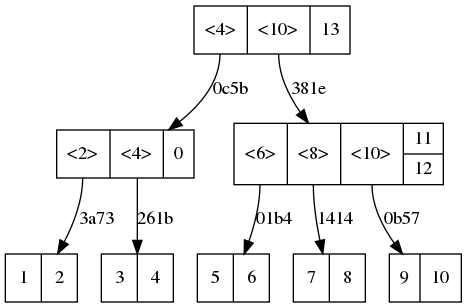
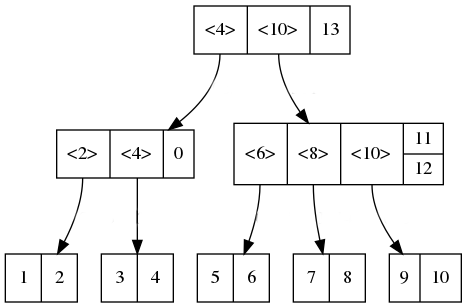
Hitchhiker tree post adjustments (#5)
* Restructure, wording

* Remove merkle hashes and clean up figures.

* Minor CSS fixes

diff --git a/_includes/footer.html b/_includes/footer.html
@@ -1,14 +1,13 @@
 <footer class="center">
   <div class="measure">
-    <small>
-      Theme crafted with &lt;3 by <a href="http://johnotander.com">John Otander</a> (<a href="https://twitter.com/4lpine">@4lpine</a>).<br>
-      &lt;/&gt; available on <a href="https://github.com/johnotander/pixyll">GitHub</a>.
-    </small>
+    <span class="small m-0 text-center license-container">
+      This work is licensed under a <a class="license-link" rel="license" href="http://creativecommons.org/licenses/by/4.0/">Creative Commons Attribution 4.0 International License</a>.
+    </span>
   </div>
 </footer>
 {% if site.enable_anchorjs %}<!-- AnchorJS -->
 <script src="https://cdnjs.cloudflare.com/ajax/libs/anchor-js/3.0.0/anchor.min.js"></script>
 <script>
-    anchors.options.visible = 'always';
-    anchors.add('article h2, article h3, article h4, article h5, article h6');
+  anchors.options.visible = 'always';
+  anchors.add('article h2, article h3, article h4, article h5, article h6');
 </script>{% endif %}

diff --git a/_includes/post_footer.html b/_includes/post_footer.html
@@ -1,10 +1,5 @@
 <div class="py2 post-footer">
-  <img src="{{ site.baseurl }}/images/me.jpeg" alt="John Otander" class="avatar" />
-  <p>
-    Pixyll is an open-source Jekyll theme that's built by <a href="http://johnotander.com">John Otander</a>.
-    When he's not writing code and building things, he likes to ski. A. Lot.
-  </p>
-  <p>
-    Follow him on <a href="https://twitter.com/4lpine">Twitter</a>.
+  <p class="m-0 text-center license-container">
+    This work is licensed under a <a class="license-link" rel="license" href="http://creativecommons.org/licenses/by/4.0/">Creative Commons Attribution 4.0 International License</a>.
   </p>
 </div>

diff --git a/_includes/header.html b/_includes/header.html
@@ -1,6 +1,7 @@
 <header class="site-header px2 px-responsive">
   <div class="mt2 wrap">
     <div class="measure">
+      <div><a href="https://datopia.io">&#8593; datopia.io</a></div>
       <center>
         <a href="{{ site.url }}" class="datopia-home-link">
           <img src="/images/header.svg">

diff --git a/_sass/_custom.scss b/_sass/_custom.scss
@@ -224,3 +224,11 @@ body #mc_embed_signup #mc-embedded-subscribe-form div.mce_inline_error {
 .diag {
     padding-bottom: 1ex;
 }
+
+
+table {
+    border-collapse: collapse;
+}
+th, td {
+    padding: 0;
+}

diff --git a/_sass/_header.scss b/_sass/_header.scss
@@ -3,13 +3,6 @@
   padding-bottom: $space-2;
 }
 
-.site-header a {
-  color: #333;
-  font-size: $h3;
-  font-weight: 300;
-  background-image: none;
-}
-
 .site-header .site-title {
   font-size: $h2;
 }

diff --git a/_sass/_footer.scss b/_sass/_footer.scss
@@ -19,7 +19,6 @@
 }
 
 footer {
-  background-color: $footer-bg-color;
   border-top: $footer-border-top;
   color: $footer-color;
   font-size: $footer-font-size;
